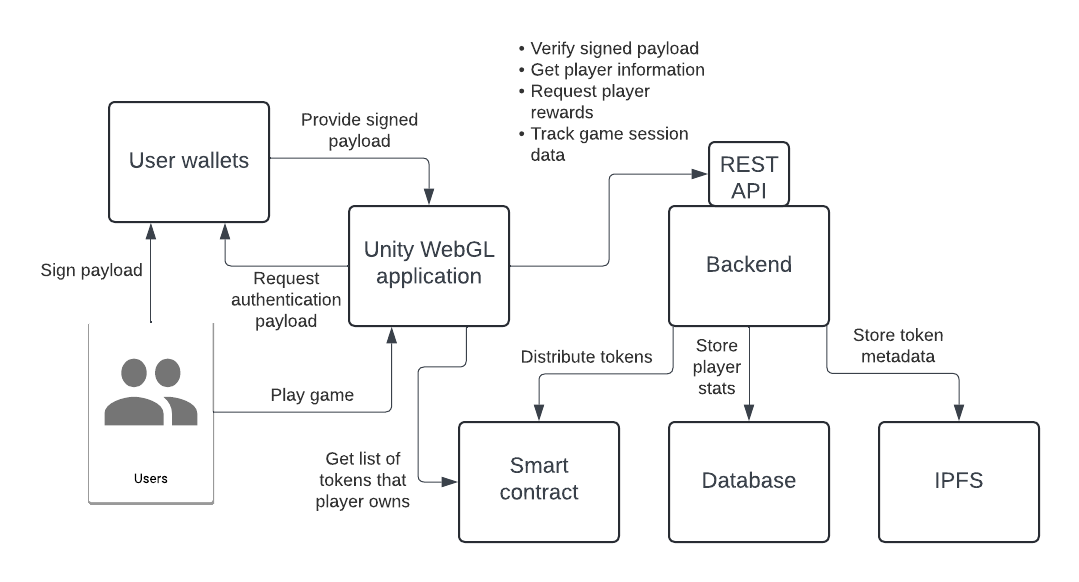
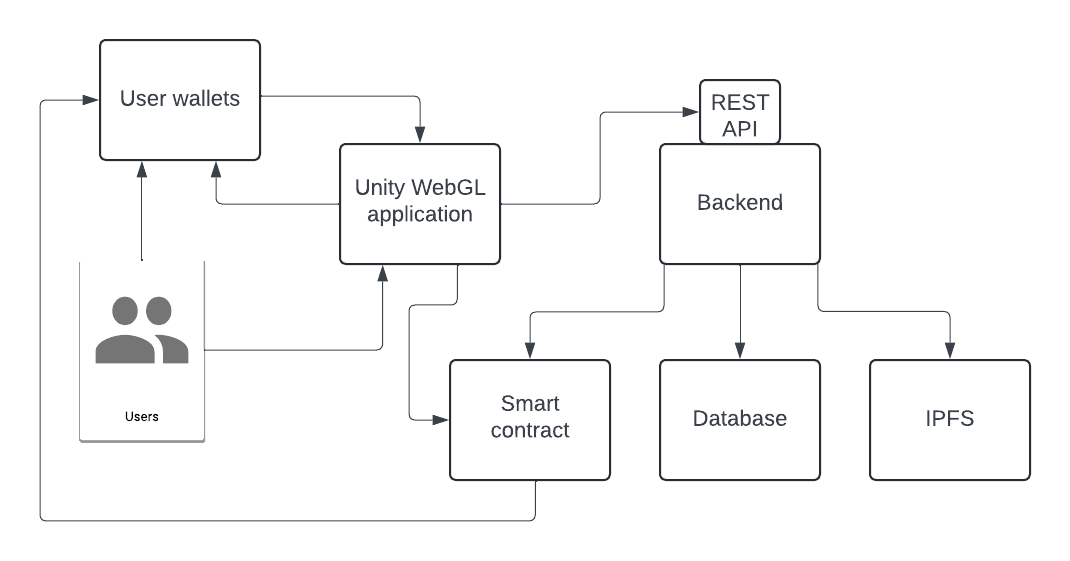
Split diagrams for clarity

diff --git a/docs/unity/sample-game.md b/docs/unity/sample-game.md
@@ -2,7 +2,7 @@
 title: Sample game
 authors: Tim McMackin
 last_update:
-  date: 17 May 2024
+  date: 22 May 2024
 ---
 
 The sample game for the Unity SDK is a single-player third-person shooter with survival elements.
@@ -69,12 +69,18 @@ For more information about connecting to user wallets, see [Connecting accounts]
 When the wallet is connected, the game prompts the user to sign a payload to prove that they have the key for the account.
 The process follows these general steps:
 
+1. The user loads the game client and clicks the button to connect.
+1. The game client requests an authentication payload from the backend.
 1. The backend [generates a random string](https://github.com/k-karuna/tezos_game_back/blob/e6bc9c021b86704ec1ce1b5e3fd799977d05034f/api/views.py#L20) and sends it to the Unity application.
 1. The Unity application [sends the string as a signing request payload](https://github.com/baking-bad/tezos-unity-game/blob/7e3fb6454896896f7e0ac77f09d2b5f02e104aa7/Assets/Scripts/Managers/UserDataManager.cs#L108) to the wallet.
 1. The user signs the payload in their wallet application.
 1. The Unity application [receives the signed payload and sends it to the backend](https://github.com/baking-bad/tezos-unity-game/blob/9b71d3832dac076d74bd822c19b5f93909434190/Assets/Scripts/Managers/UserDataManager.cs#L78).
 1. The backend [verifies that the payload is correctly signed](https://github.com/k-karuna/tezos_game_back/blob/e6bc9c021b86704ec1ce1b5e3fd799977d05034f/api/views.py#L50).
 1. The game [allows the user to play if validation is successful](https://github.com/baking-bad/tezos-unity-game/blob/9b71d3832dac076d74bd822c19b5f93909434190/Assets/Scripts/Managers/UserDataManager.cs#L80).
+
+Here is a diagram of the process:
+
+![Authentication flow diagram](/img/unity/unity-sample-game-authentication.png)
 
 For more information about signing messages, see [Signing messages](./quickstart#signing-messages) in the Unity SDK quickstart.
 
@@ -91,6 +97,9 @@ For example, tokens with the ID 1 represent armor:
 
 The contract pre-mints a supply of 1000 of each token type so tokens are available when players claim them.
 When a player claims a token with the Claim Reward button and solves a captcha, the game client calls the backend, which verifies the captcha and calls the contract's `transfer` entrypoint to send one of that token type to the player's account.
+This diagram shows the interaction between the game and the player's wallet:
+
+![A diagram of the interaction between the player's wallet and the components of the application, showing how tokens are read from the wallet information and distributed from the smart contract to the wallet](/img/unity/sample-game-architecture-play.png)
 
 An account can have only one of each token type, which makes the tokens similar to NFTs, but they are not NFTs because any number of accounts can have one of each token.
 Therefore, they are technically fungible tokens because tokens of the same type are interchangeable, but the backend sends only one token of each type to each account.
